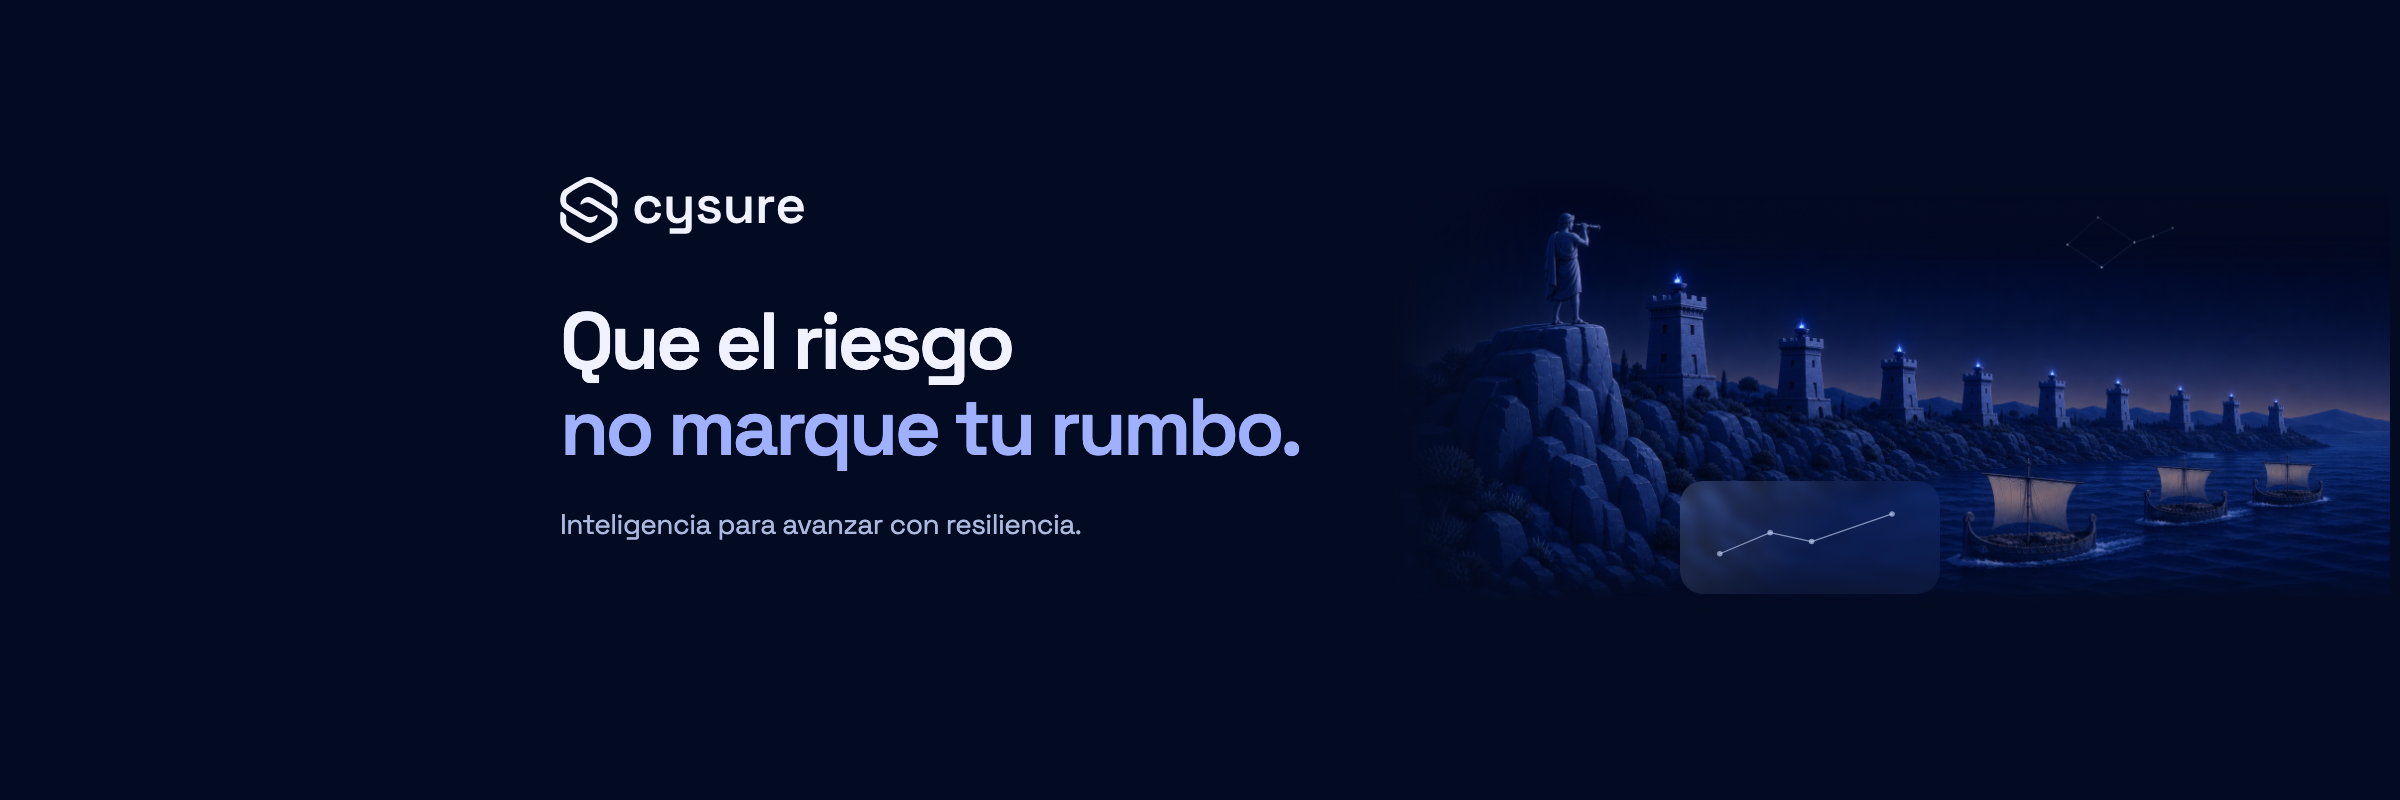
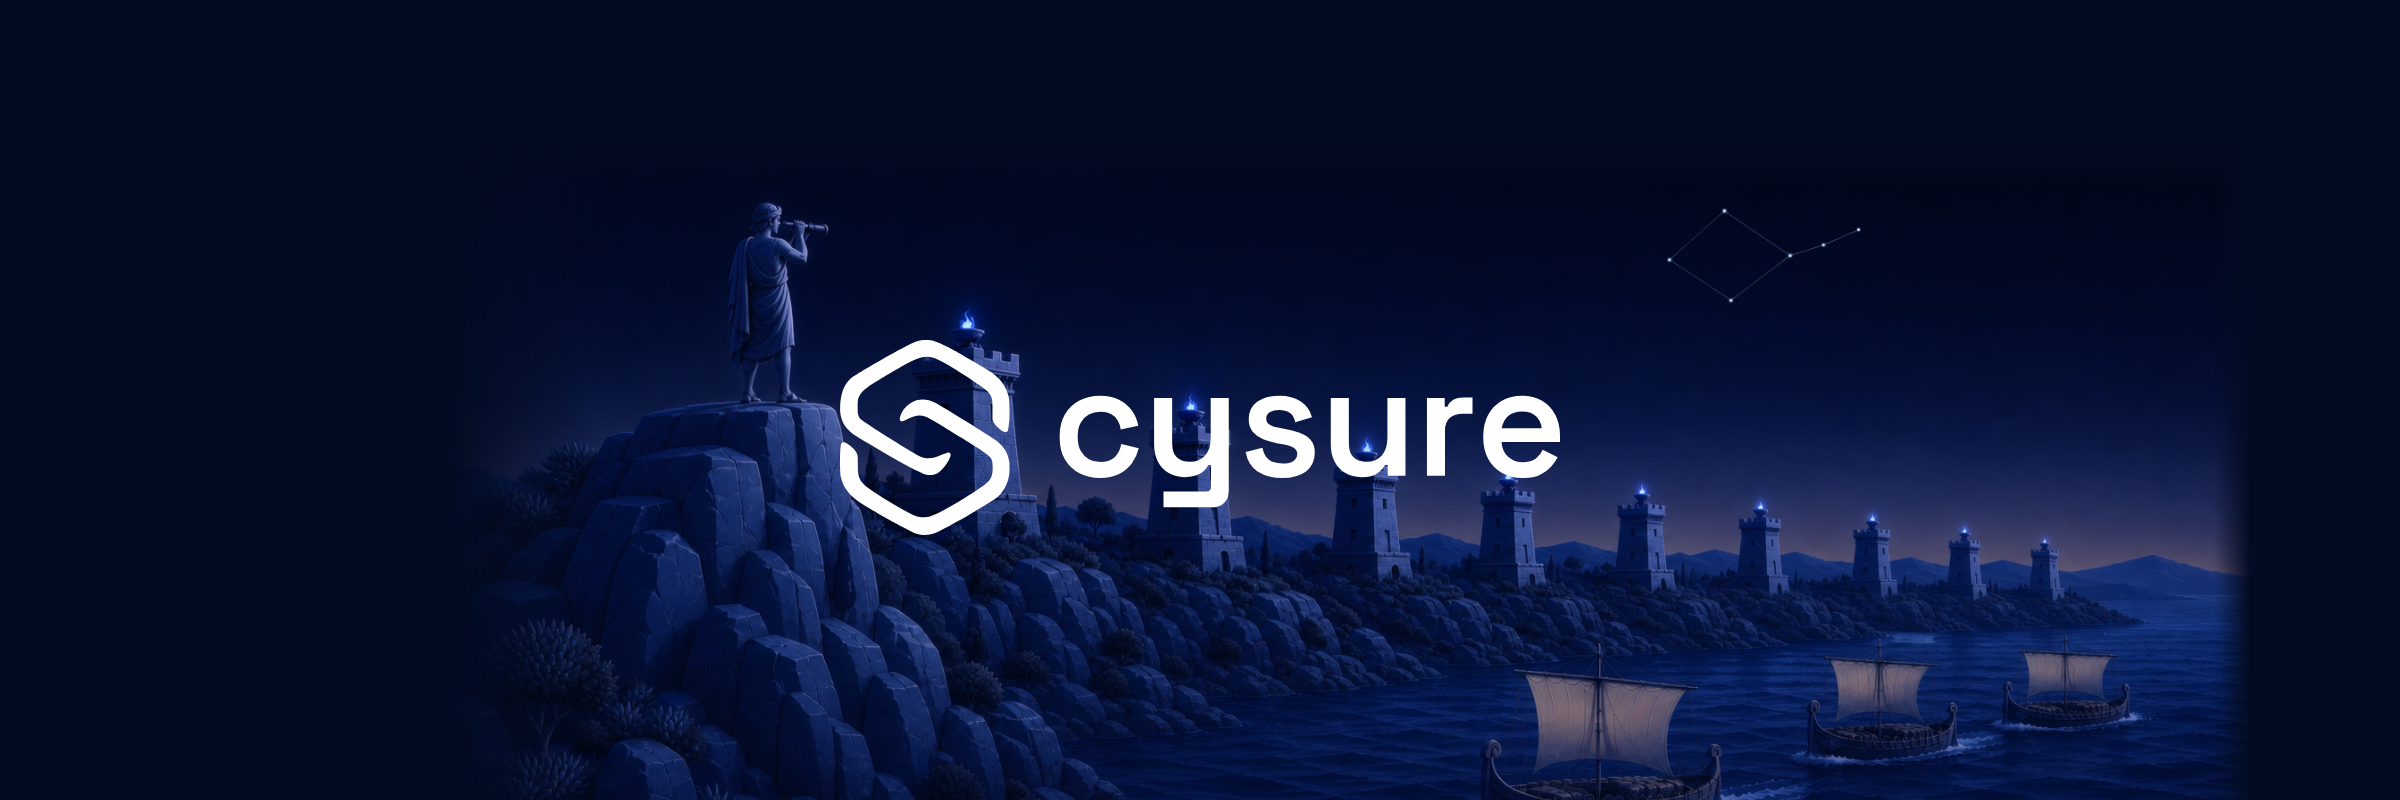
Portada dark de Notion v3: escena ampliada y solo el lockup centrado
Sustituye cover-notion-linkedin-drive-dark-2400x600.png por la version v3
aprobada: misma ilustracion griega con la escena mas amplia y unicamente el
lockup Cysure centrado, sin frase ni subtitulo. Bytes preservados del PNG
entregado, sin reexportar ni recodificar.

- SHA256: 4369c6e0c14ab72d9bf52da9c3b03aa8e38543ef3efb12e442d4919682d94ab7
- Git blob SHA1: 05f8c2662583ae740c2ab82d45ca12416672185d (anterior: 9c7f8d24c6e2844149bac399b8ac1512ea63c907)
- 1185209 bytes, PNG 2400x800 RGB no entrelazado

Se conserva el nombre legado 2400x600 para no romper las URLs raw externas y
se actualiza la nota del README, que ya no menciona la frase retirada. No se
tocan la portada blanca ni los demas assets.

Claude-Session: https://claude.ai/code/session_01GnoQGkAj9WeR7gG7yYAf4H

Changed region(s): [[0.2188, 0.2188, 1.0, 1.0], [0.625, 0.2812, 0.6875, 0.3438]]

diff --git a/README.md b/README.md
@@ -10,7 +10,7 @@ Archivos (nombres estables — no renombrar, hay URLs externas apuntando a ellos
 - `cysure-mark.svg` / `cysure-lockup.svg` — vectores oficiales del mark y del lockup (v2.1)
 - `cysure-mark-firma-1024.png` — mark sobre blanco, 1024×1024 (firma electrónica)
 - `cover-notion-linkedin-drive-blanco-2400x600.png` — cover claro (Notion HQ, LinkedIn, Drive)
-- `cover-notion-linkedin-drive-dark-2400x600.png` — cover oscuro «Que el riesgo no marque tu rumbo» (Notion HQ, LinkedIn, Drive). Dimensiones reales 2400×800; el nombre legado `2400x600` se conserva para no romper las URLs externas
+- `cover-notion-linkedin-drive-dark-2400x600.png` — cover oscuro: escena completa con el lockup Cysure centrado, sin frase ni subtítulo (Notion HQ, LinkedIn, Drive). Dimensiones reales 2400×800; el nombre legado `2400x600` se conserva para no romper las URLs externas
 - `google-workspace-logo-320x132.png` — lockup horizontal (Google Workspace)
 - `firma-icon-whatsapp.png` / `firma-icon-linkedin.png` / `firma-icon-x.png` — íconos sociales 512×512 para la firma electrónica (tile redondeado, colores oficiales)
 - `firma-icon-calendar.png` — ícono de agenda 512×512, línea blanca sobre transparente (pill "Agendar reunión" de la firma)
